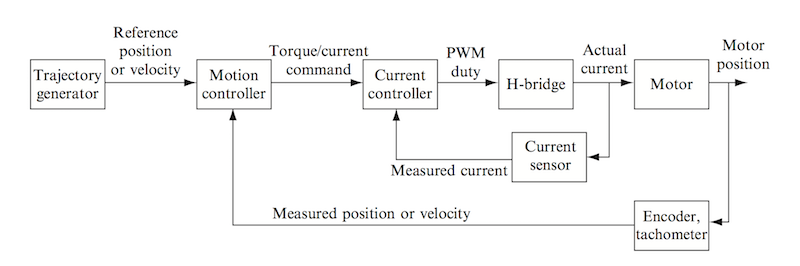
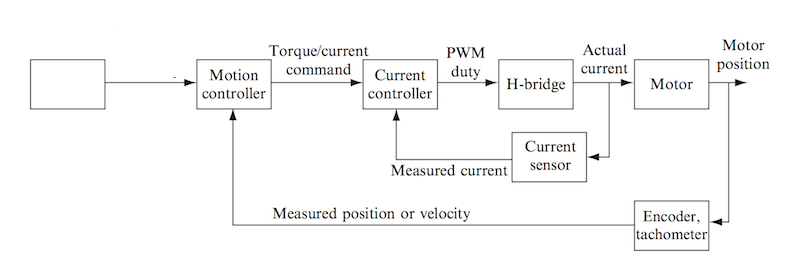
change to hapics proj

Changed region(s): [[0.0312, 0.2406, 0.2188, 0.391], [0.125, 0.0902, 0.2188, 0.1504], [0.125, 0.1805, 0.2188, 0.2105]]

diff --git a/_projects/00-haptics.md b/_projects/00-haptics.md
@@ -16,11 +16,9 @@ imageMain: /mariosebasco.github.io/public/images/Haptic_Image.jpg
 In order to provide the haptic feedback required, a permanent magnet, brushed, DC motor was used.
 The electronics used to control the motor consisted of an Arduino UNO as the microcontroller, an H-Bridge (DRV8835), a current sense amplifier (MAX9918), and an optical encoder.
 
-The controller consits of two PID loops. As can be seen in the figure, the inner loop controls the current of the motor. Since at stall the current is proportional to the torque the motor provides, robust current control is crucial in providing haptic feedback for mechanisms such as springs and walls which rely on force outputs. The outer loop controls the position. Using the encoder, this loop is what allows correct distance related feedback.
+The controller consists of a PID loop. The loop controls the current of the motor. Since at stall the current is proportional to the torque the motor provides, robust current control is crucial in providing haptic feedback for mechanisms such as springs and walls which rely on force outputs. By controlling the force as a function of position, velocity, and acceleration (using an encoder) one is capable of making a user interact with virutal springs, dampers, masses, and many more possible combinations.
 
 The culmination of these components forms the heart of the project. From here a spring can be generated by applying current proportional to encoder counts. A virtual wall consists of a high force area at a certain distance. Virtual texture can be generated with the use of high and low force areas interweaved one after the other in sequence.
-
-<img src="/mariosebasco.github.io/public/images/controlLoop.png" alt="control loop" style="width:800px;height:266px;">
 
 ## Haptics
 
